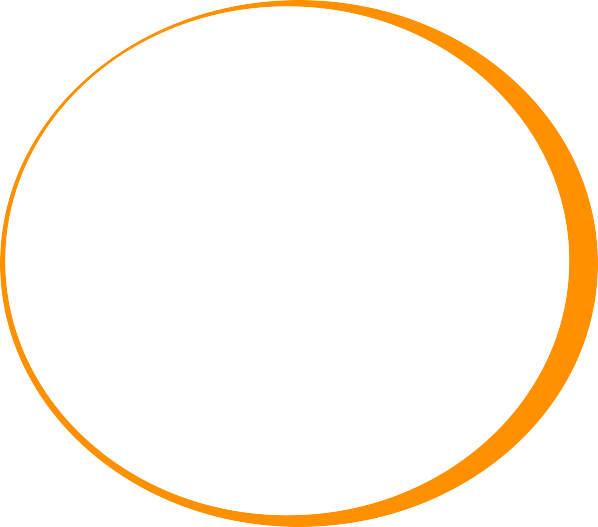
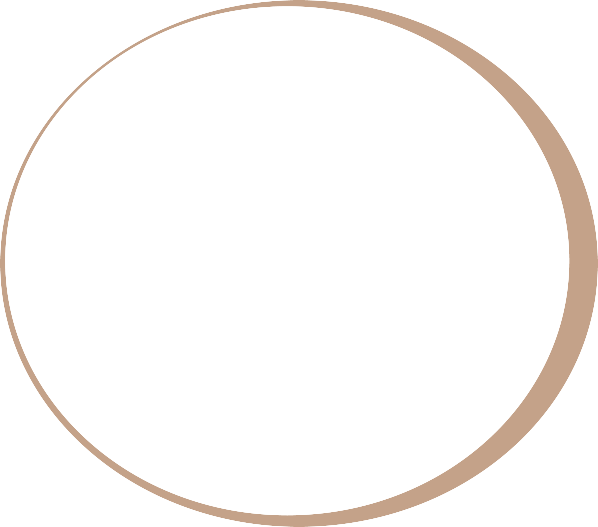
textos colores

diff --git a/index.html b/index.html
@@ -74,8 +74,8 @@
             <nav class="main-menu">
                 <div class="container-fluid">
                     <div class="main-menu__logo">
-                        <a href="index.html">
-                            <img src="assets/images/logo-dark.png" width="34" height="34" alt="Ogency">
+                        <a href="/">
+                            <img src="assets/images/logo-dagda.png"  alt="DAGDA">
                         </a>
                     </div><!-- /.main-menu__logo -->
                     <div class="main-menu__nav">
@@ -186,14 +186,7 @@
                     </div>
                 </div><!-- slider item end -->
             </div>
-            <!-- social start -->
-            <div class="main-slider__socails">
-                <!-- <a href="https://twitter.com/"><i class="fab fa-twitter"></i></a>
-                <a href="https://www.facebook.com/"><i class="fab fa-facebook"></i></a>
-                <a href="https://www.pinterest.com/"><i class="fab fa-pinterest-p"></i></a>
-                <a href="https://www.instagram.com/"><i class="fab fa-instagram"></i></a> -->
-            </div>
-            <!-- social end -->
+            
             <!-- phone start -->
             <div class="main-slider__phone"><a href="mailto:contacto@dagda.com">contacto@dagda.com</a></div>
             <!-- phone end -->
@@ -258,6 +251,8 @@
             </div>
         </section>
         <!-- Video Start-->
+
+
         <!-- Service Start -->
         <section id="servicios" class="service-one @@extraClassName">
             <div class="container">
@@ -266,11 +261,13 @@
                         <div class="section-title text-center">
                             <h5 class="section-title__tagline section-title__tagline--has-dots">Nuestros Servicios</h5>
                             <h2 class="section-title__title">Soluciones exclusivas para nuestros clientes</h2>
+                            <p class="why-choose__box__text">Nos comprometemos a ofrecer productos de alta calidad con el respaldo de un equipo experto e innovador, brindándote un servicio eficiente y personalizado que impulse tu crecimiento y éxito.</p>                    
+                        
                         </div><!-- section-title -->
                     </div>
                 </div>
                 <div class="row">
-                    <div class="col-lg-6 col-md-6 wow fadeInUp animated" data-wow-delay="100ms">
+                    <div class="col-lg-6 col-md-6 mb-30 wow fadeInUp animated" data-wow-delay="100ms">
                         <div class="service-one__item mb-30">
                             <div class="service-one__item__icon">
                                 <span class="icon-technology"></span>
@@ -296,7 +293,7 @@
                         </div>
                     </div>
                     
-                    <div class="col-lg-6 col-md-6 wow fadeInUp animated" data-wow-delay="100ms">
+                    <div class="col-lg-6 col-md-6 mb-30 wow fadeInUp animated" data-wow-delay="100ms">
                         <div class="service-one__item mb-30">
                             <div class="service-one__item__icon">
                                 <span class="icon-badge"></span>
@@ -322,7 +319,7 @@
                         </div>
                     </div>
                     
-                    <div class="col-lg-6 col-md-6 wow fadeInUp animated" data-wow-delay="100ms">
+                    <div class="col-lg-6 col-md-6 mb-30 wow fadeInUp animated" data-wow-delay="100ms">
                         <div class="service-one__item mb-30">
                             <div class="service-one__item__icon">
                                 <span class="icon-tools"></span> <!-- Asume que puedes tener un icono de herramientas o usa icon-idea -->
@@ -348,7 +345,7 @@
                         </div>
                     </div>
                     
-                    <div class="col-lg-6 col-md-6 wow fadeInUp animated" data-wow-delay="100ms">
+                    <div class="col-lg-6 col-md-6 mb-30 wow fadeInUp animated" data-wow-delay="100ms">
                         <div class="service-one__item mb-30">
                             <div class="service-one__item__icon">
                                 <span class="icon-layers"></span>
@@ -374,7 +371,7 @@
                         </div>
                     </div>
                     
-                    <div class="col-lg-6 col-md-6 wow fadeInUp animated" data-wow-delay="100ms">
+                    <div class="col-lg-6 col-md-6 mb-30 wow fadeInUp animated" data-wow-delay="100ms">
                         <div class="service-one__item mb-30">
                             <div class="service-one__item__icon">
                                 <span class="icon-shopping-cart"></span>
@@ -400,7 +397,7 @@
                         </div>
                     </div>
                     
-                    <div class="col-lg-6 col-md-6 wow fadeInUp animated" data-wow-delay="100ms">
+                    <div class="col-lg-6 col-md-6 mb-30 wow fadeInUp animated" data-wow-delay="100ms">
                         <div class="service-one__item mb-30">
                             <div class="service-one__item__icon">
                                 <span class="icon-complete"></span>
@@ -426,7 +423,7 @@
                         </div>
                     </div>
                     
-                    <div class="col-lg-6 col-md-6 wow fadeInUp animated" data-wow-delay="100ms">
+                    <div class="col-lg-6 col-md-6 mb-30 wow fadeInUp animated" data-wow-delay="100ms">
                         <div class="service-one__item mb-30">
                             <div class="service-one__item__icon">
                                 <span class="icon-web-development"></span>
@@ -452,7 +449,7 @@
                         </div>
                     </div>
                     
-                    <div class="col-lg-6 col-md-6 wow fadeInUp animated" data-wow-delay="100ms">
+                    <div class="col-lg-6 col-md-6 mb-30 wow fadeInUp animated" data-wow-delay="100ms">
                         <div class="service-one__item mb-30">
                             <div class="service-one__item__icon">
                                 <span class="icon-digital-services"></span>
@@ -478,7 +475,7 @@
                         </div>
                     </div>
                     
-                    <div class="col-lg-6 col-md-6 wow fadeInUp animated" data-wow-delay="100ms">
+                    <div class="col-lg-6 col-md-6 mb-30 wow fadeInUp animated" data-wow-delay="100ms">
                         <div class="service-one__item mb-30">
                             <div class="service-one__item__icon">
                                 <span class="icon-home"></span>
@@ -504,7 +501,7 @@
                         </div>
                     </div>
                     
-                    <div class="col-lg-6 col-md-6 wow fadeInUp animated" data-wow-delay="100ms">
+                    <div class="col-lg-6 col-md-6 mb-30 wow fadeInUp animated" data-wow-delay="100ms">
                         <div class="service-one__item mb-30">
                             <div class="service-one__item__icon">
                                 <span class="icon-magnifying-glass"></span>
@@ -791,7 +788,7 @@
         <div class="mobile-nav__content">
             <span class="mobile-nav__close mobile-nav__toggler"><i class="fa fa-times"></i></span>
             <div class="logo-box">
-                <a href="index.html" aria-label="logo image"><img src="assets/images/logo-light.png" width="36" alt="ogency" /></a>
+                <a href="index.html" aria-label="logo image"><img src="assets/images/logo-dagda-w110.png"  alt="Dagda" /></a>
             </div>
             <!-- /.logo-box -->
             <div class="mobile-nav__container"></div>
@@ -799,40 +796,14 @@
             <ul class="mobile-nav__contact list-unstyled">
                 <li>
                     <i class="fas fa-envelope"></i>
-                    <a href="mailto:needhelp@packageName__.com">needhelp@finlon.com</a>
-                </li>
-                <li>
-                    <i class="icon-phone-call"></i>
-                    <a href="tel:666-888-0000">666 888 0000</a>
+                    <a href="mailto:needhelp@packageName__.com">contacto@dagda.com</a>
                 </li>
             </ul><!-- /.mobile-nav__contact -->
-            <div class="mobile-nav__social">
-                <a href="https://twitter.com/"><i class="fab fa-twitter"></i></a>
-                <a href="https://www.facebook.com/"><i class="fab fa-facebook"></i></a>
-                <a href="https://www.pinterest.com/"><i class="fab fa-pinterest-p"></i></a>
-                <a href="https://www.instagram.com/"><i class="fab fa-instagram"></i></a>
-            </div><!-- /.mobile-nav__social -->
+            
         </div>
         <!-- /.mobile-nav__content -->
     </div>
     <!-- /.mobile-nav__wrapper -->
-
-
-    <div class="search-popup">
-        <div class="search-popup__overlay search-toggler"></div>
-        <!-- /.search-popup__overlay -->
-        <div class="search-popup__content">
-            <form action="#">
-                <label for="search" class="sr-only">search here</label><!-- /.sr-only -->
-                <input type="text" id="search" placeholder="Search Here..." />
-                <button type="submit" aria-label="search submit" class="ogency-btn">
-                    <i class="icon-magnifying-glass"></i>
-                </button>
-            </form>
-        </div>
-        <!-- /.search-popup__content -->
-    </div>
-    <!-- /.search-popup -->
 
     <!-- back-to-top-start -->
     <a href="#" class="scroll-top">

diff --git a/assets/css/ogency.css b/assets/css/ogency.css
@@ -1400,17 +1400,17 @@
 :root {
   --ogency-font: 'Plus Jakarta Sans', sans-serif;
   --heading-font: 'Plus Jakarta Sans', sans-serif;
-  --ogency-color: #5d5d5d;
+  --ogency-color: #7f735d;
   --ogency-color-rgb: 93, 93, 93;
-  --ogency-base: #f5900d;
+  --ogency-base: #c09567;
   --ogency-base-rgb: 245, 144, 13;
-  --ogency-black: #000000;
+  --ogency-black: #332e20;
   --ogency-black-rgb: 0, 0, 0;
-  --ogency-black2: #101010;
+  --ogency-black2: #423527;
   --ogency-black2-rgb: 16, 16, 16;
   --ogency-black3: #1a1a1a;
   --ogency-black3-rgb: 26, 26, 26;
-  --ogency-white: #ffffff;
+  --ogency-white: #ece8dd;
   --ogency-white-rgb: 255, 255, 255;
 }
 
@@ -4990,6 +4990,10 @@ h6 {
   position: relative;
   background-color: var(--ogency-black2);
   padding: 40px 50px 33px;
+
+  display: flex;
+  flex-direction: column;
+  height: 100%;
 }
 
 @media (min-width: 992px) and (max-width: 1199px) {
@@ -5076,6 +5080,13 @@ h6 {
 .service-one__item__btn:hover span {
   transform: rotate(-45deg);
 }
+
+.service-one .row {
+  display: flex;
+  flex-wrap: wrap;
+}
+
+
 
 /*-- Service 2 --*/
 .service-two {
